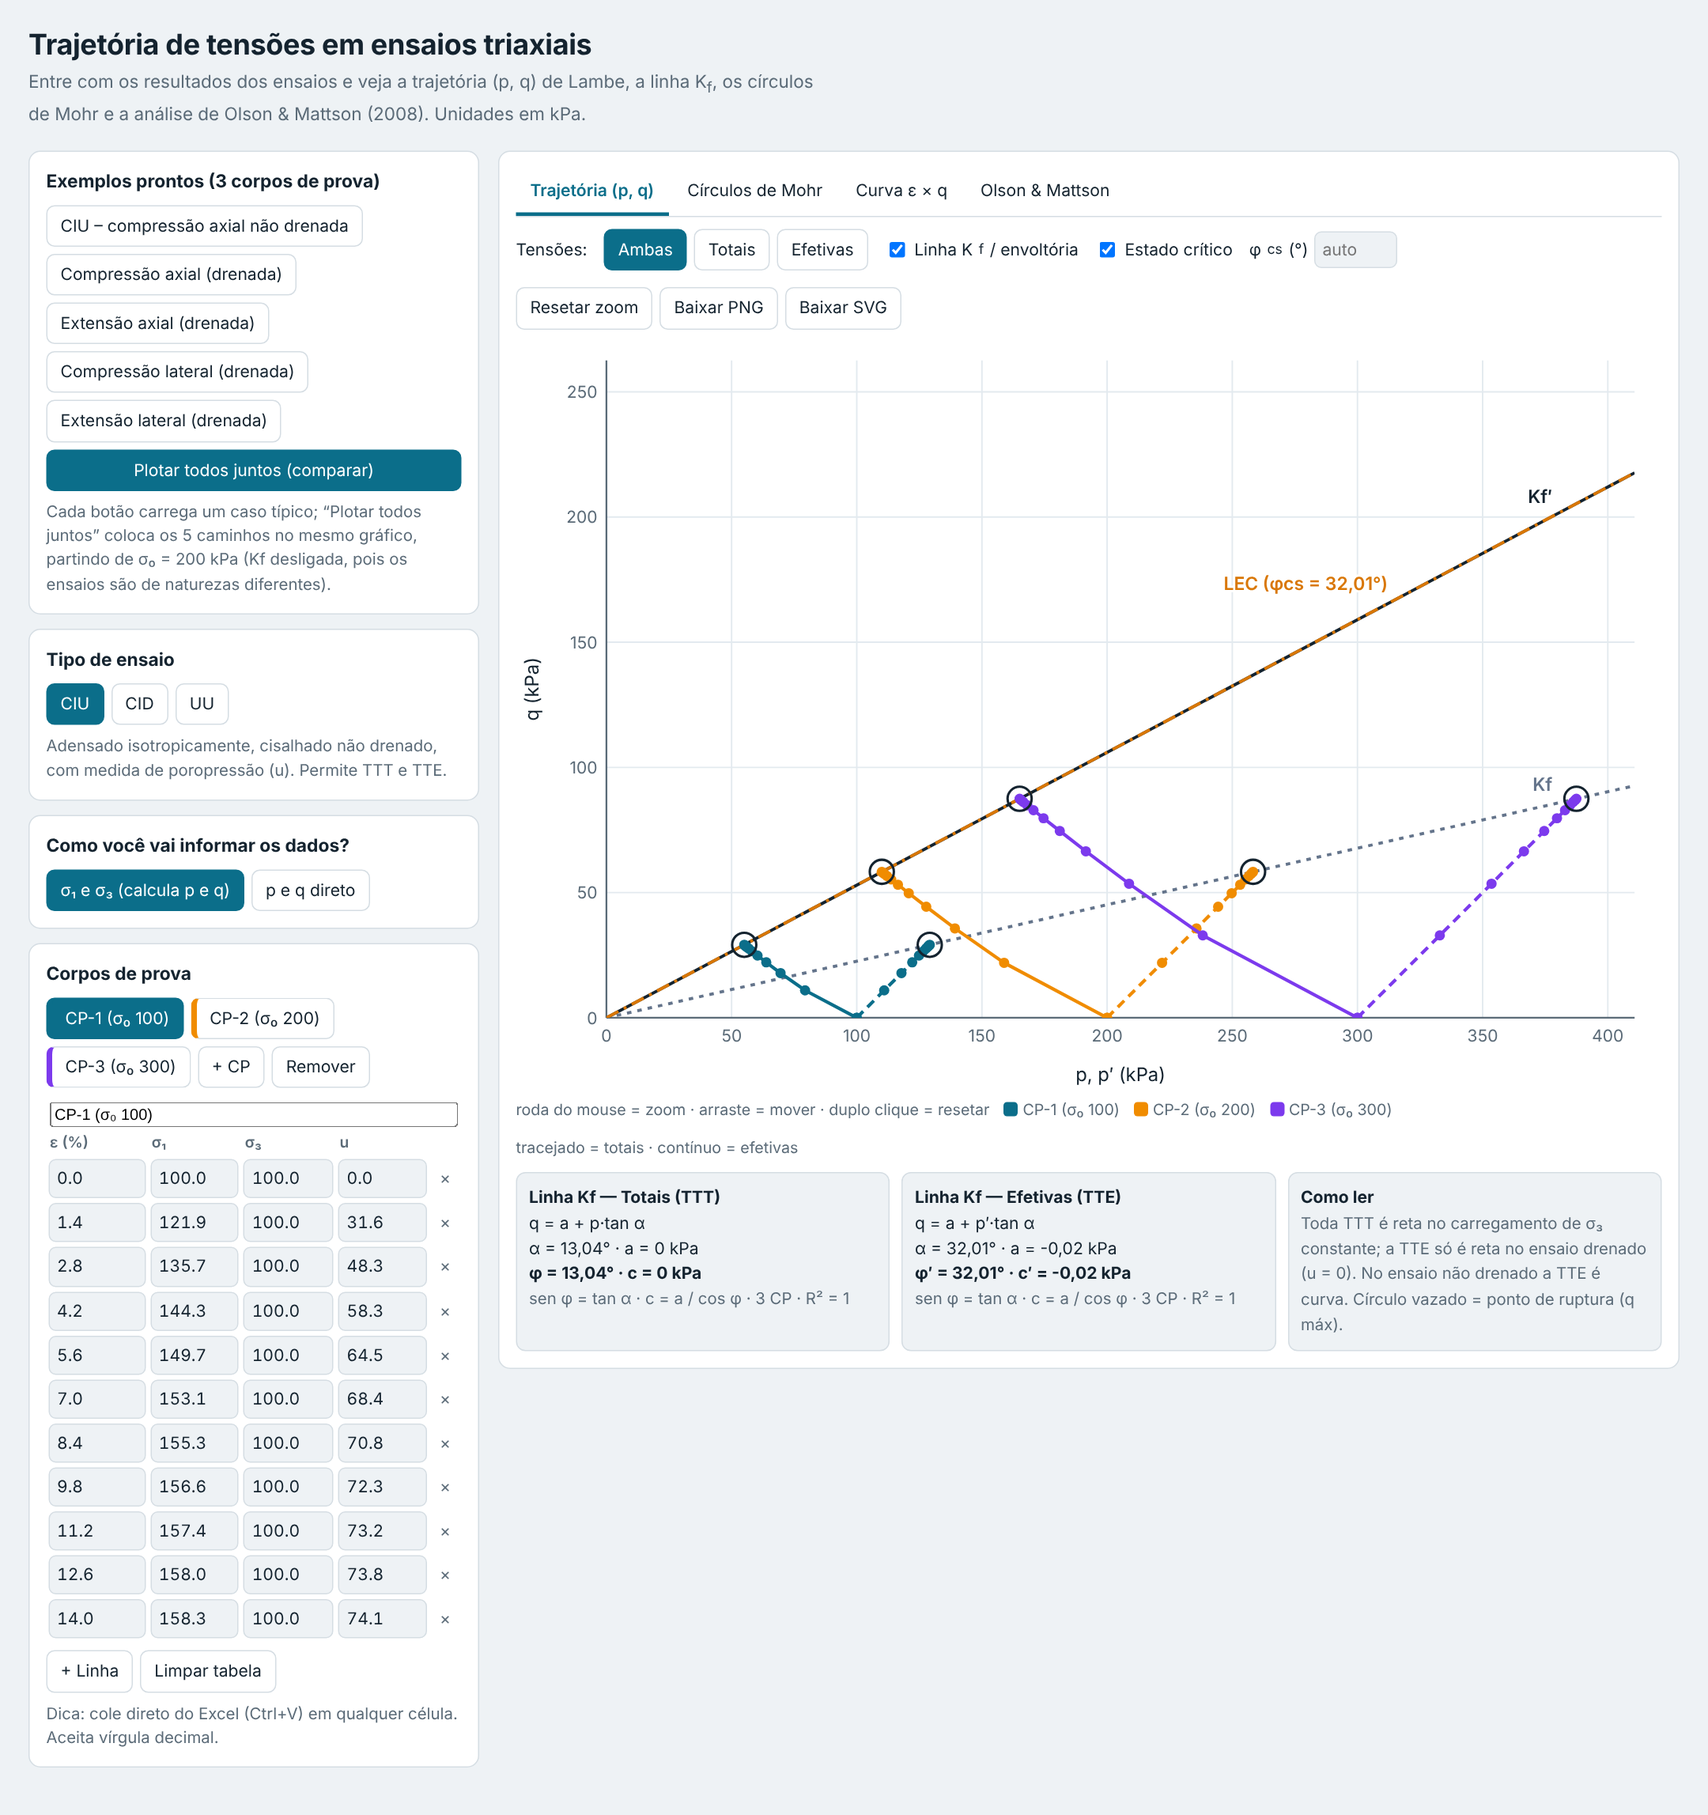
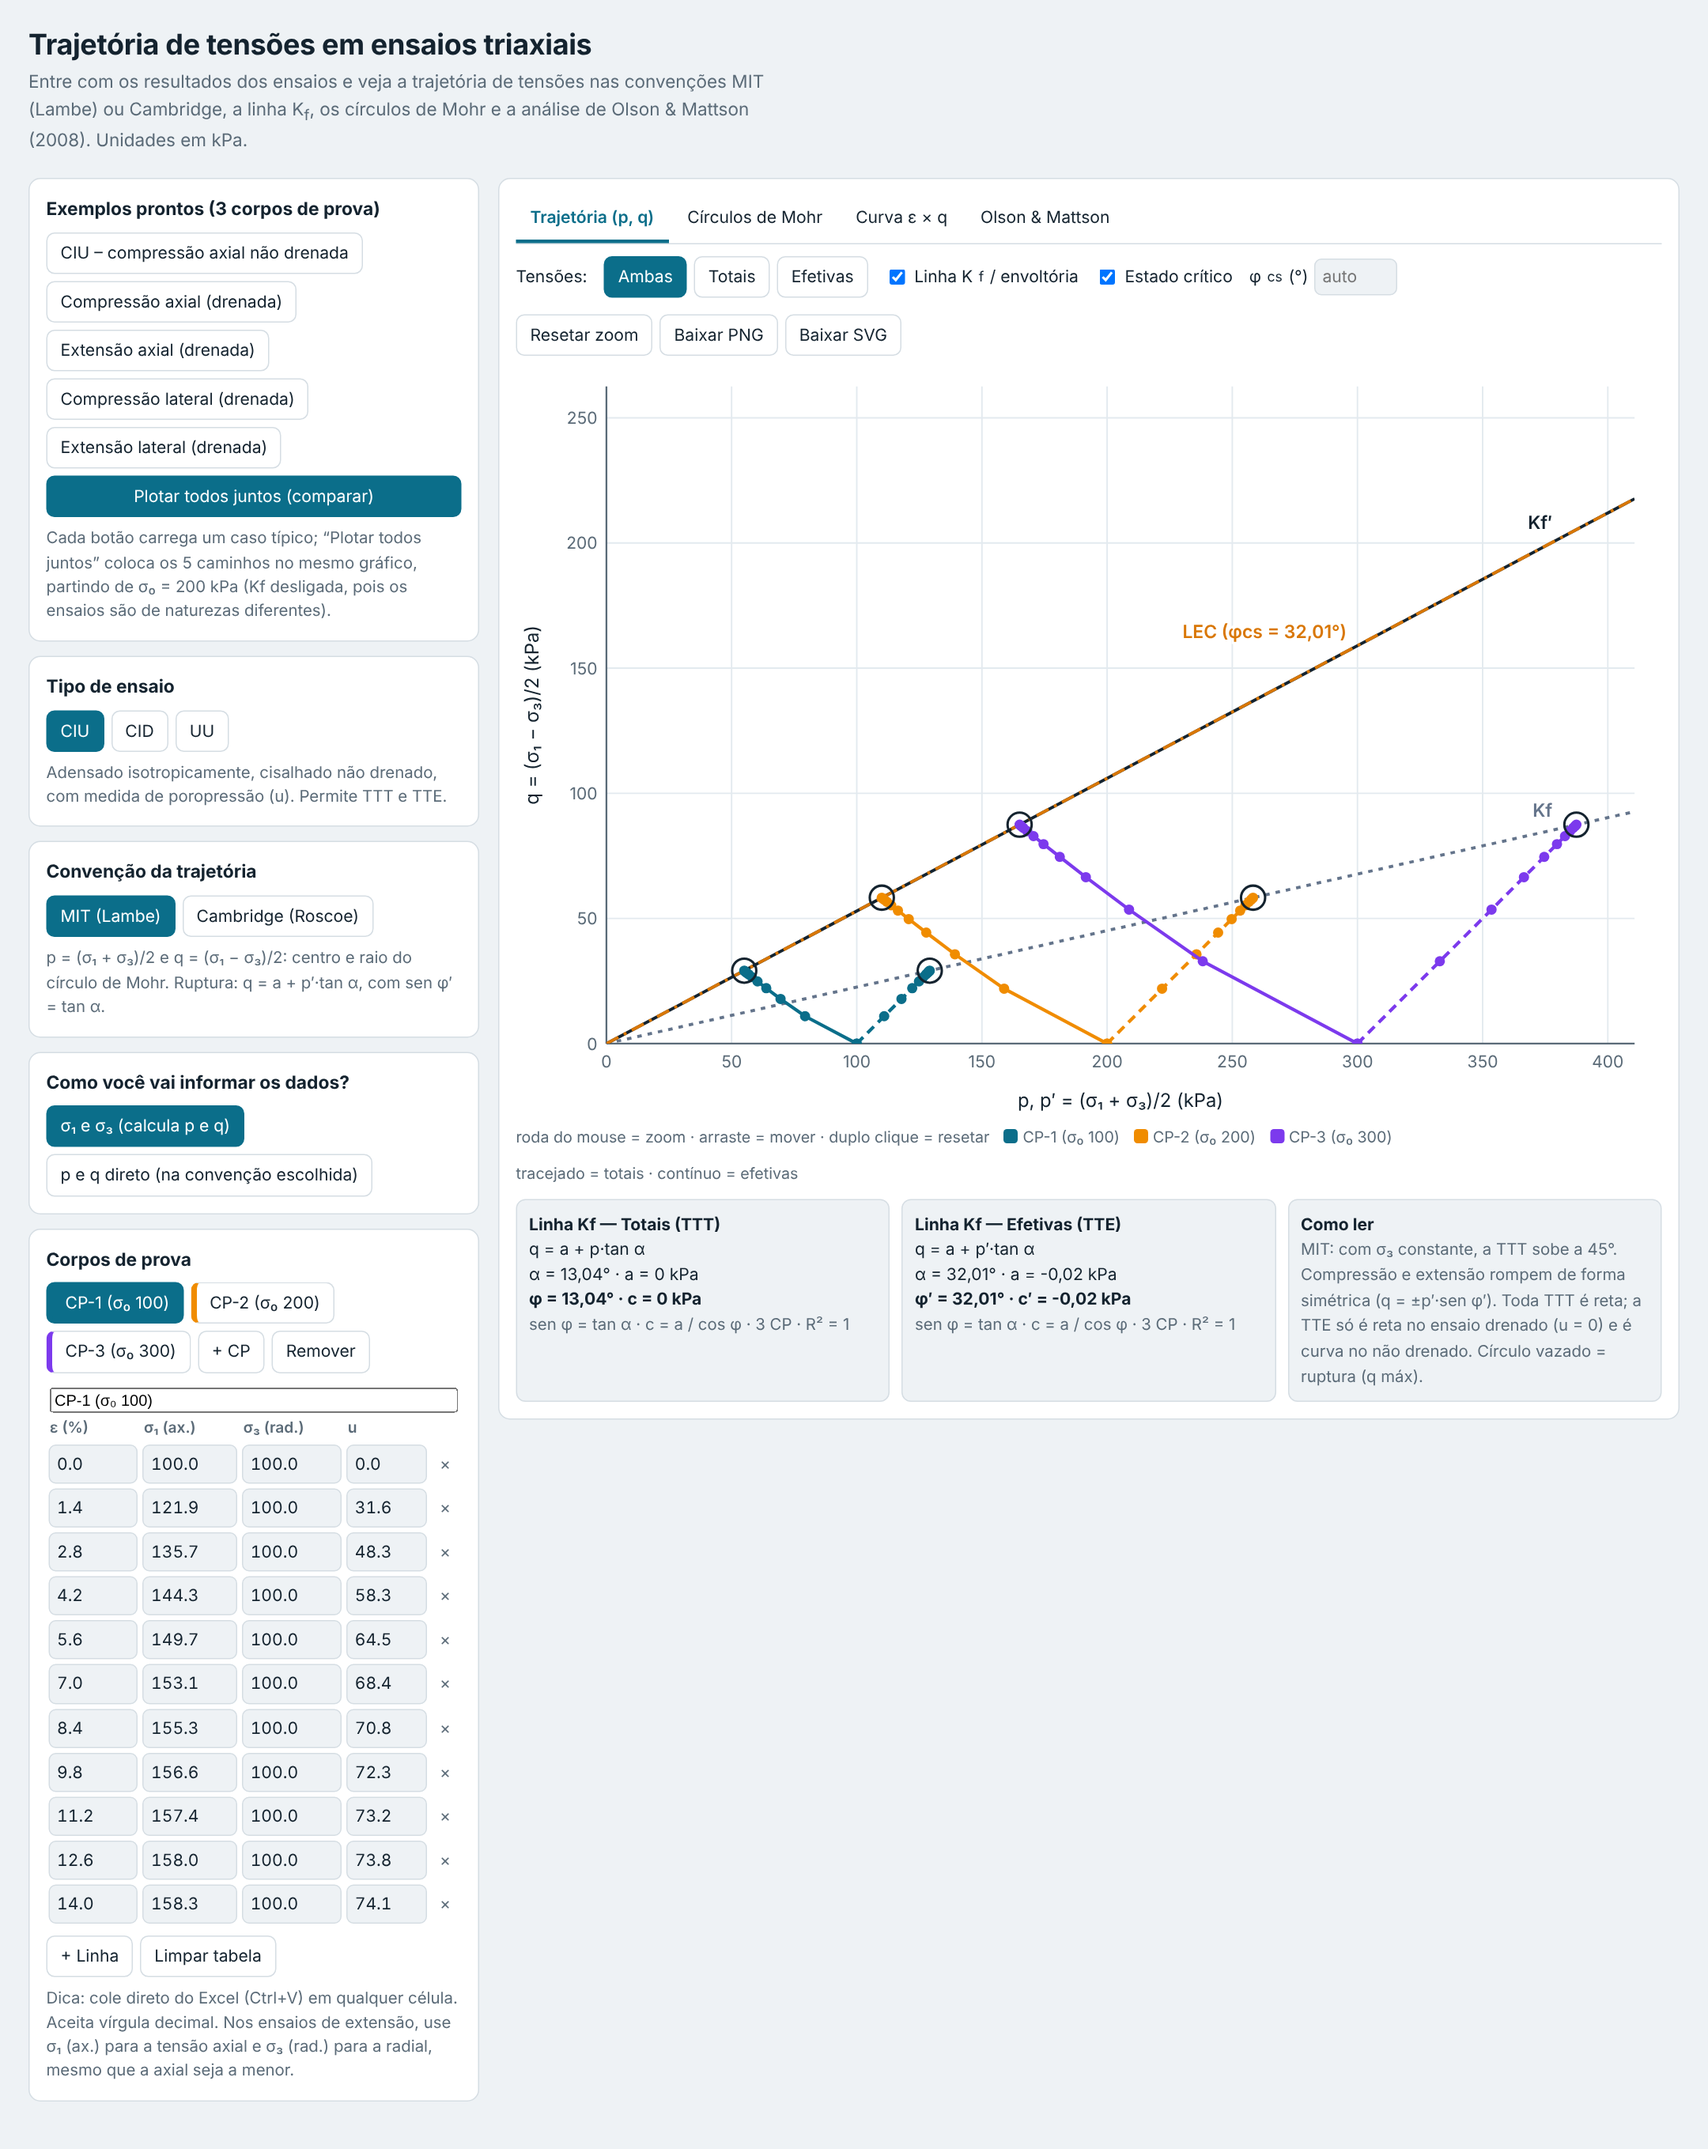
docs: README e prints com a convenção de Cambridge
Claude-Session: https://claude.ai/code/session_016NX9F9U6oncos6dyf3Rc4q

diff --git a/README.md b/README.md
@@ -1,6 +1,6 @@
 # Interpretação de ensaios triaxiais
 
-App de engenharia geotécnica para **trajetórias de tensões (p, q)**, **linha K<sub>f</sub>**, **círculos de Mohr** e **resistência não drenada (Olson & Mattson, 2008)** a partir de resultados de ensaios triaxiais CIU, CID e UU.
+App de engenharia geotécnica para **trajetórias de tensões (p, q) nas convenções MIT e Cambridge**, **linha K<sub>f</sub>**, **círculos de Mohr** e **resistência não drenada (Olson & Mattson, 2008)** a partir de resultados de ensaios triaxiais CIU, CID e UU.
 
 É um único arquivo HTML: abra com duplo clique no navegador, sem instalar nada e sem internet.
 
@@ -12,6 +12,15 @@ App de engenharia geotécnica para **trajetórias de tensões (p, q)**, **linha 
 Tensões totais (tracejado) e efetivas (contínuo) no mesmo gráfico, ruptura marcada em cada corpo de prova, linha K<sub>f</sub> ajustada por regressão e φ′, c′ calculados na hora.
 
 ![Trajetória p-q](docs/img/01-trajetoria-ciu.png)
+
+### Convenção de Cambridge
+Um clique troca a trajetória para p = (σ₁ + 2σ₃)/3 e q = σ₁ − σ₃. A ruptura vira q = M·p′, com M de compressão e de extensão calculados a partir de φ′.
+
+![Trajetória em Cambridge](docs/img/06-cambridge-ciu.png)
+
+Na comparação dos exemplos fica visível a diferença entre compressão (M<sub>c</sub>) e extensão (M<sub>e</sub>):
+
+![Comparação em Cambridge](docs/img/07-cambridge-comparacao.png)
 
 ### Círculos de Mohr e envoltória de resistência
 Círculos na ruptura de cada corpo de prova, com a envoltória de Mohr-Coulomb e a linha de estado crítico.
@@ -35,6 +44,7 @@ Um clique plota compressão e extensão, axial e lateral, mais o CIU, partindo d
 
 ## Funcionalidades
 
+- **Convenção MIT (Lambe) ou Cambridge (Roscoe)** para a trajetória, com conversão automática dos dados da tabela.
 - **Tipos de ensaio:** CIU, CID e UU. No CIU há coluna de poropressão (u) e é possível ver tensões totais (TTT), efetivas (TTE) ou ambas.
 - **Entrada de dados:** informe σ₁ e σ₃ (o programa calcula p e q) ou informe p e q diretamente. Aceita vírgula decimal e colagem direta do Excel.
 - **Vários corpos de prova**, cada um com uma cor.
@@ -49,7 +59,7 @@ Um clique plota compressão e extensão, axial e lateral, mais o CIU, partindo d
 
 ## Fórmulas
 
-Para σ₂ = σ₃ (coordenadas de Lambe):
+Convenção MIT (Lambe), para σ₂ = σ₃:
 
 ```
 p  = (σ₁ + σ₃) / 2        p′ = p − u
@@ -60,6 +70,20 @@ Linha K<sub>f</sub> no plano p–q: `q = a + p·tan α`, com
 
 ```
 sen φ = tan α        c = a / cos φ
+```
+
+Convenção de Cambridge (Roscoe), com σ₁ = tensão axial e σ₃ = tensão radial:
+
+```
+p  = (σ₁ + 2σ₃) / 3       p′ = p − u
+q  = σ₁ − σ₃
+```
+
+Ruptura no plano p–q: `q = q₀ + M·p′`, com
+
+```
+compressão (q > 0):  M = 6 sen φ′ / (3 − sen φ′)    sen φ′ = 3M / (6 + M)
+extensão   (q < 0):  M = 6 sen φ′ / (3 + sen φ′)    sen φ′ = 3M / (6 − M)
 ```
 
 Resistência não drenada normalizada (Olson & Mattson, 2008):
@@ -77,6 +101,7 @@ Abra o `index.html` em qualquer navegador moderno. Para publicar online, ative o
 ## Observações
 
 - Unidades em kPa.
+- Os círculos de Mohr e a análise de Olson & Mattson usam sempre (σ₁ − σ₃)/2, independentemente da convenção escolhida.
 - Os exemplos prontos e as imagens acima usam dados sintéticos (φ′ = 32°), apenas para demonstração.
 - A ruptura é tomada como o ponto de q máximo de cada ensaio.
 - Ferramenta de apoio ao estudo; não substitui a análise de um engenheiro geotécnico.

diff --git a/CHANGELOG.md b/CHANGELOG.md
@@ -5,8 +5,18 @@ Formato baseado em [Keep a Changelog](https://keepachangelog.com/pt-BR/1.1.0/).
 ## [Não lançado]
 
 ### Adicionado
+- Convenção de Cambridge (Roscoe) para a trajetória de tensões: p = (σ₁ + 2σ₃)/3, q = σ₁ − σ₃.
+- Envoltória q = q₀ + M·p′ com φ′ e c′ calculados de M, e M de compressão e de extensão nos cartões.
+- Linha de estado crítico com ramos de compressão (M<sub>c</sub>) e extensão (M<sub>e</sub>).
+- Conversão automática da tabela ao trocar a convenção ou a forma de entrada (σ₁/σ₃ ↔ p/q).
+- Capturas de tela da convenção de Cambridge no README.
 - Ícone próprio da aba e do histórico do navegador (SVG embutido no `index.html`).
 - Capturas de tela do app em `docs/img/` e README com apresentação visual.
+
+### Corrigido
+- Linha K<sub>f</sub> desenhada do lado errado (q positivo) nos ensaios de extensão.
+- φ<sub>cs</sub> automático passa a vir do φ′ ajustado, sem depender da convenção.
+- Rótulos das linhas mudam de lado quando ficariam cortados na borda do gráfico.
 
 ## [1.0.0] - 2026-11-03
 
